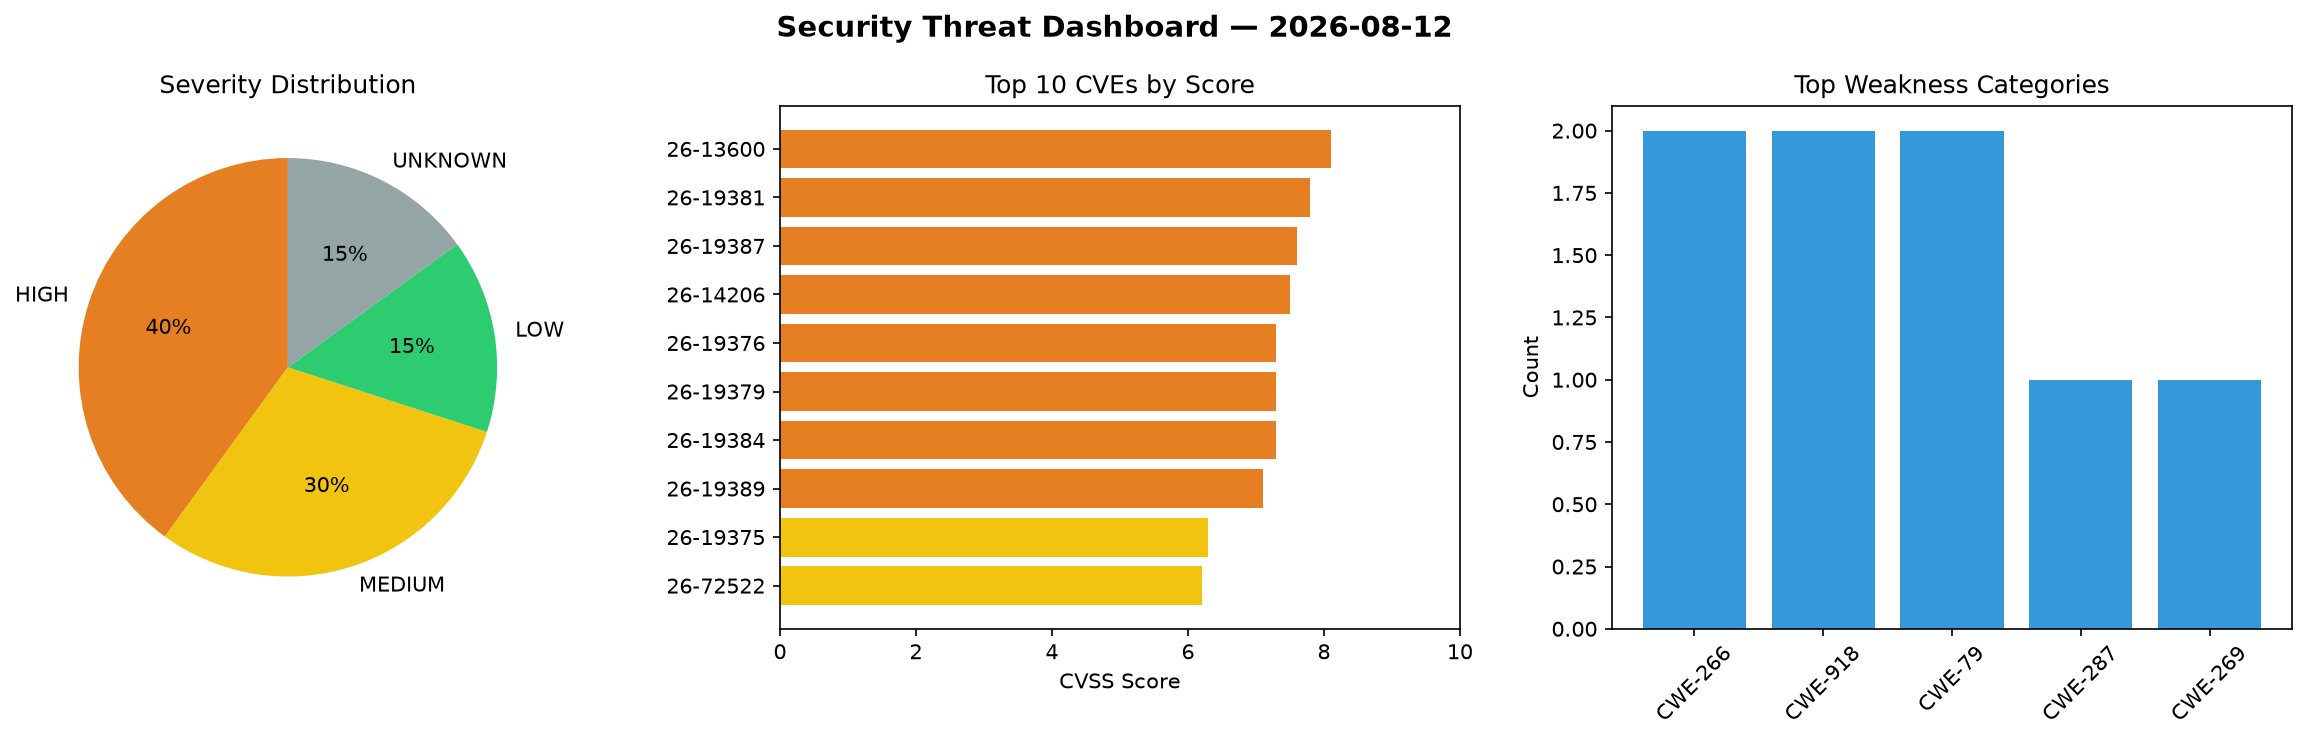
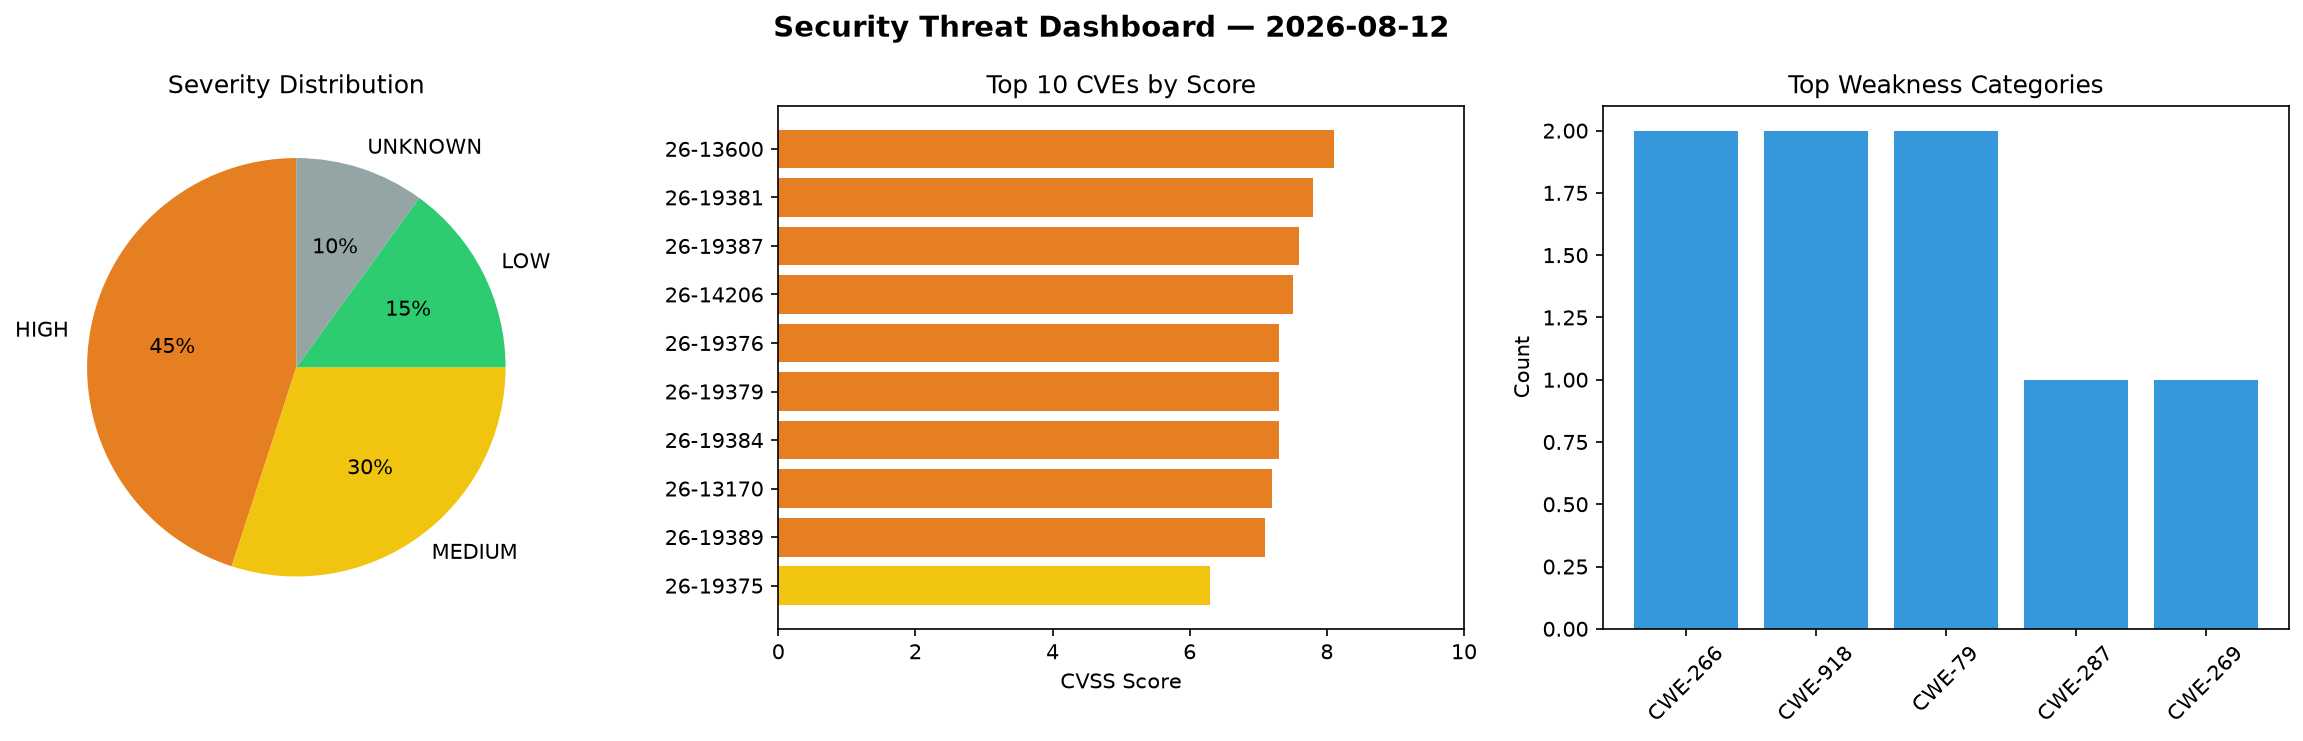
daily-experiments: security scan 2026-08-12T15:24

diff --git a/logs/2026-08-12.md b/logs/2026-08-12.md
@@ -1,6 +1,6 @@
 # Security Scan Report — 2026-08-12
 
-**Scan ID:** `f874e3686a` | **CVEs:** 20 | **Threat Index:** 250.4
+**Scan ID:** `cf6b9b5534` | **CVEs:** 20 | **Threat Index:** 272.0
 
 ![Dashboard](2026-08-12_dashboard.png)
 
@@ -10,19 +10,19 @@
 
 | Metric | Value |
 |--------|-------|
-| Threat Index | 250.4 |
+| Threat Index | 272.0 |
 | Critical CVEs | 0 |
-| HIGH | 8 |
+| HIGH | 9 |
 | MEDIUM | 6 |
 | LOW | 3 |
-| UNKNOWN | 3 |
+| UNKNOWN | 2 |
 
 ## Delta vs Yesterday
 
 | Metric | Today | Yesterday | Change |
 |--------|-------|-----------|--------|
 | total_cves | 20 | 20 | ➡ 0.0% |
-| threat_index | 250.4 | 490.2 | 📉 -48.9% |
+| threat_index | 272.0 | 490.2 | 📉 -44.5% |
 | critical_count | 0 | 10 | 📉 -100.0% |
 
 ## Top Weakness Categories
@@ -46,6 +46,7 @@
 | CVE-2026-19376 | 7.3 | HIGH | A vulnerability has been found in Uasoft Badaso 3.0.0-alpha. This vulnerability ... |
 | CVE-2026-19379 | 7.3 | HIGH | A vulnerability was determined in EFM ipTIME AX8004M 15.09.0. Impacted is the fu... |
 | CVE-2026-19384 | 7.3 | HIGH | A weakness has been identified in SourceCodester Simple Doctors Appointment Syst... |
+| CVE-2026-13170 | 7.2 | HIGH | The Eventin  WordPress plugin before 4.1.20 does not properly validate a templat... |
 | CVE-2026-19389 | 7.1 | HIGH | Multiple integer overflow and underflow vulnerabilities were found in the GStrea... |
 | CVE-2026-19375 | 6.3 | MEDIUM | A vulnerability was detected in dmitriiweb article-scraper-mcp 1.0.0. This vulne... |
 | CVE-2026-72522 | 6.2 | MEDIUM | libexpat before 2.8.3 has an out-of-bounds read and resultant infinite loop beca... |
@@ -53,4 +54,3 @@
 | CVE-2026-13701 | 4.8 | MEDIUM | The Advanced Excerpt WordPress plugin before 4.5 does not sanitise and escape on... |
 | CVE-2026-19383 | 4.7 | MEDIUM | A security vulnerability has been detected in saithink/saigroup SaiAdmin up to 5... |
 | CVE-2026-19378 | 4.3 | MEDIUM | A vulnerability was found in code-projects Task Management System 1.0. This issu... |
-| CVE-2026-19380 | 2.3 | LOW | A vulnerability was identified in Mullvad wireguard.sys 0.10.1. The affected ele... |
